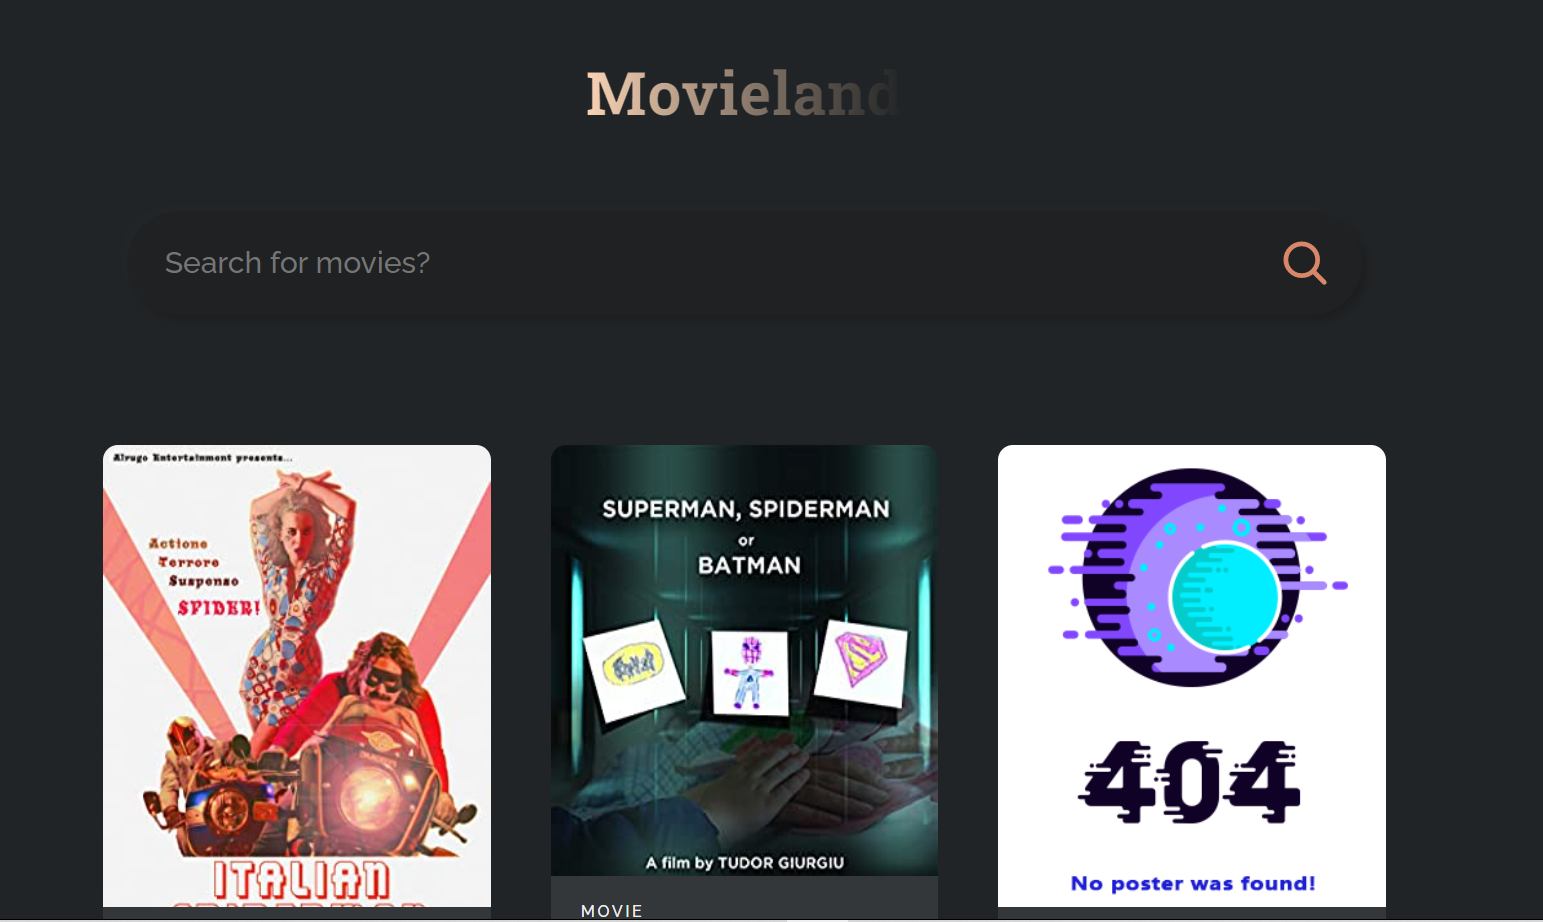
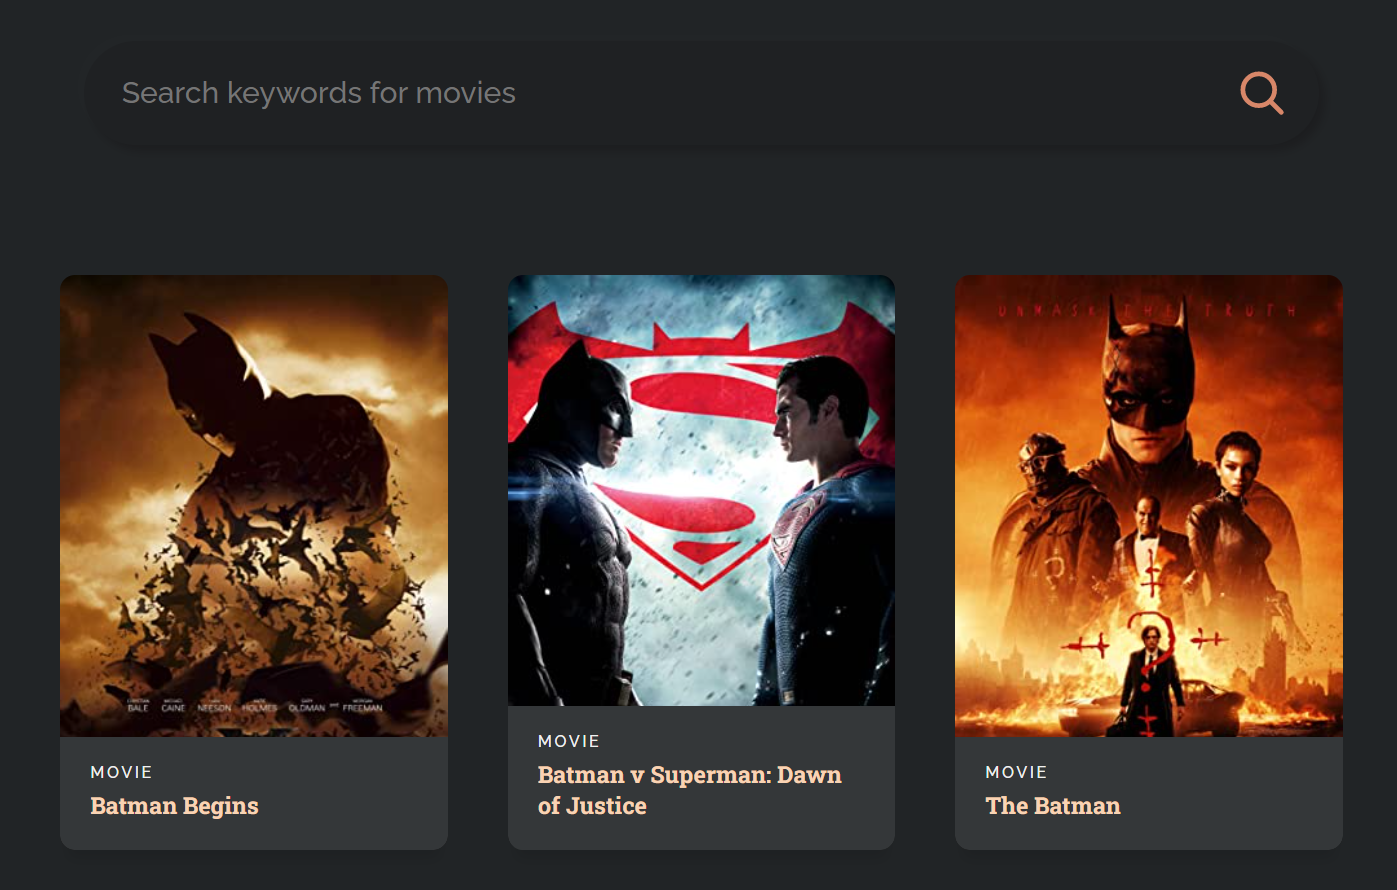
optimise code

diff --git a/src/App.js b/src/App.js
@@ -17,7 +17,7 @@ const App = () => {
   };
 
   useEffect(() => {
-    searchMovies("Spiderman");
+    searchMovies("batman");
   }, []);
 
   return (
@@ -27,7 +27,7 @@ const App = () => {
       {/* search bar */}
       <div className="search">
         <input
-          placeholder="Search for movies?"
+          placeholder="Search keywords for movies"
           value={searchTerm}
           onChange={(event) => {
             setSearchTerm(event.target.value);

diff --git a/public/index.html b/public/index.html
@@ -2,7 +2,7 @@
 <html lang="en">
   <head>
     <meta charset="utf-8" />
-    <link rel="icon" href="%PUBLIC_URL%/favicon.ico" />
+    <link rel="icon" href="%PUBLIC_URL%/favicon.png" />
     <meta name="viewport" content="width=device-width, initial-scale=1" />
     <meta name="theme-color" content="#000000" />
     <meta name="description" content="Web site created using create-react-app" />

diff --git a/README.md b/README.md
@@ -1,4 +1,4 @@
-<h1>React Learning App - Movieland<img src="https://github.com/MR-Addict/movieland/actions/workflows/pages.yml/badge.svg?branch=main"/>
+<h1>React Learning App - Movieland <img src="https://github.com/MR-Addict/movieland/actions/workflows/pages.yml/badge.svg?branch=main"/>
 </h1>
 
 ## 1. Preview
@@ -13,7 +13,13 @@ This is my first React Learning App which I learning from this youtuber channel:
 
 ## 2. Commands
 
-### deploy
+### create
+
+```bash
+npx create-react-app movieland
+```
+
+### start
 
 ```bash
 npm start
